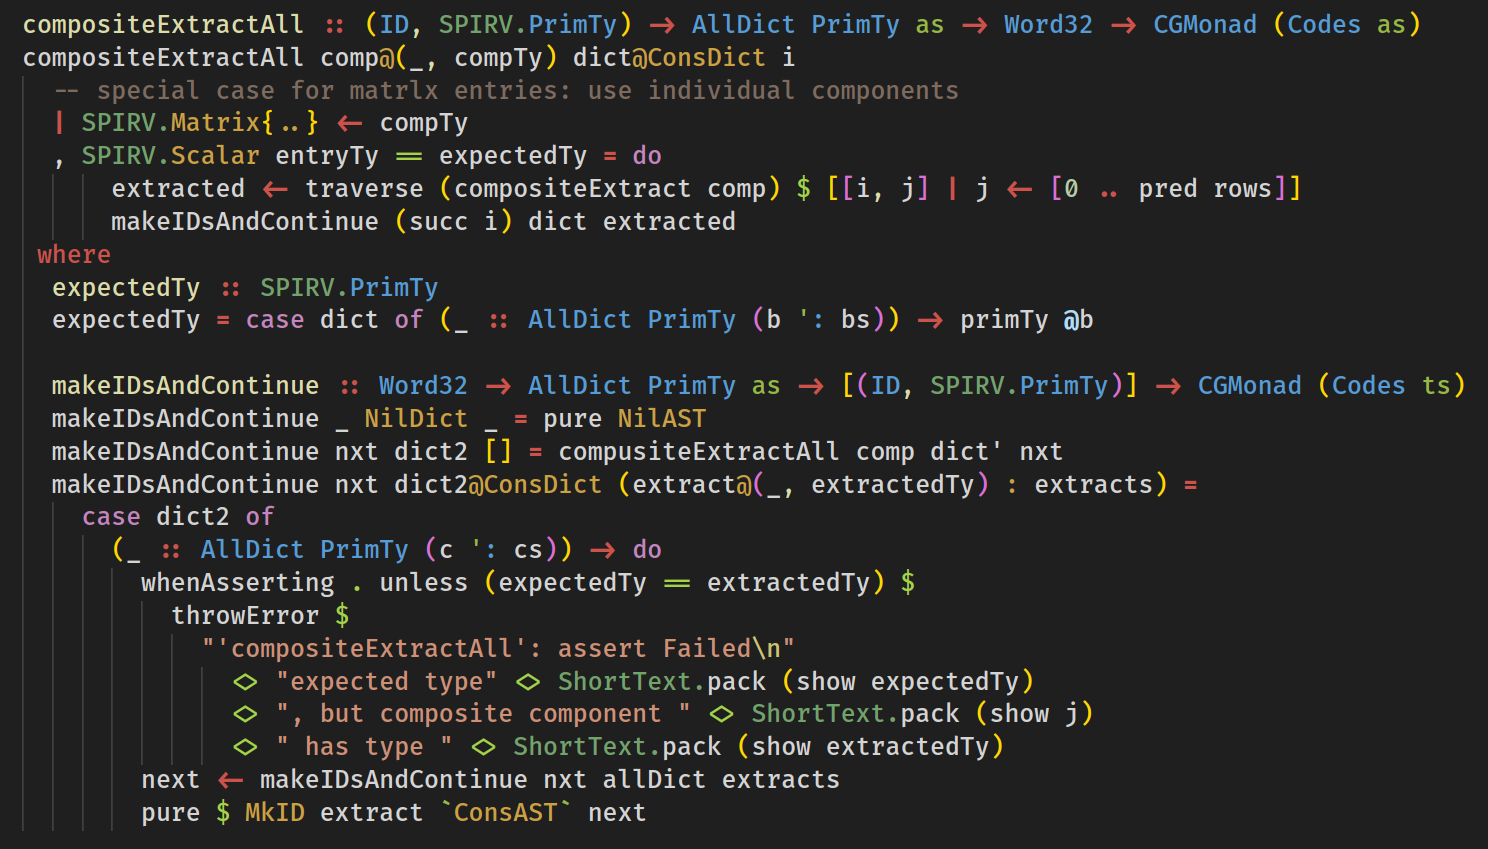
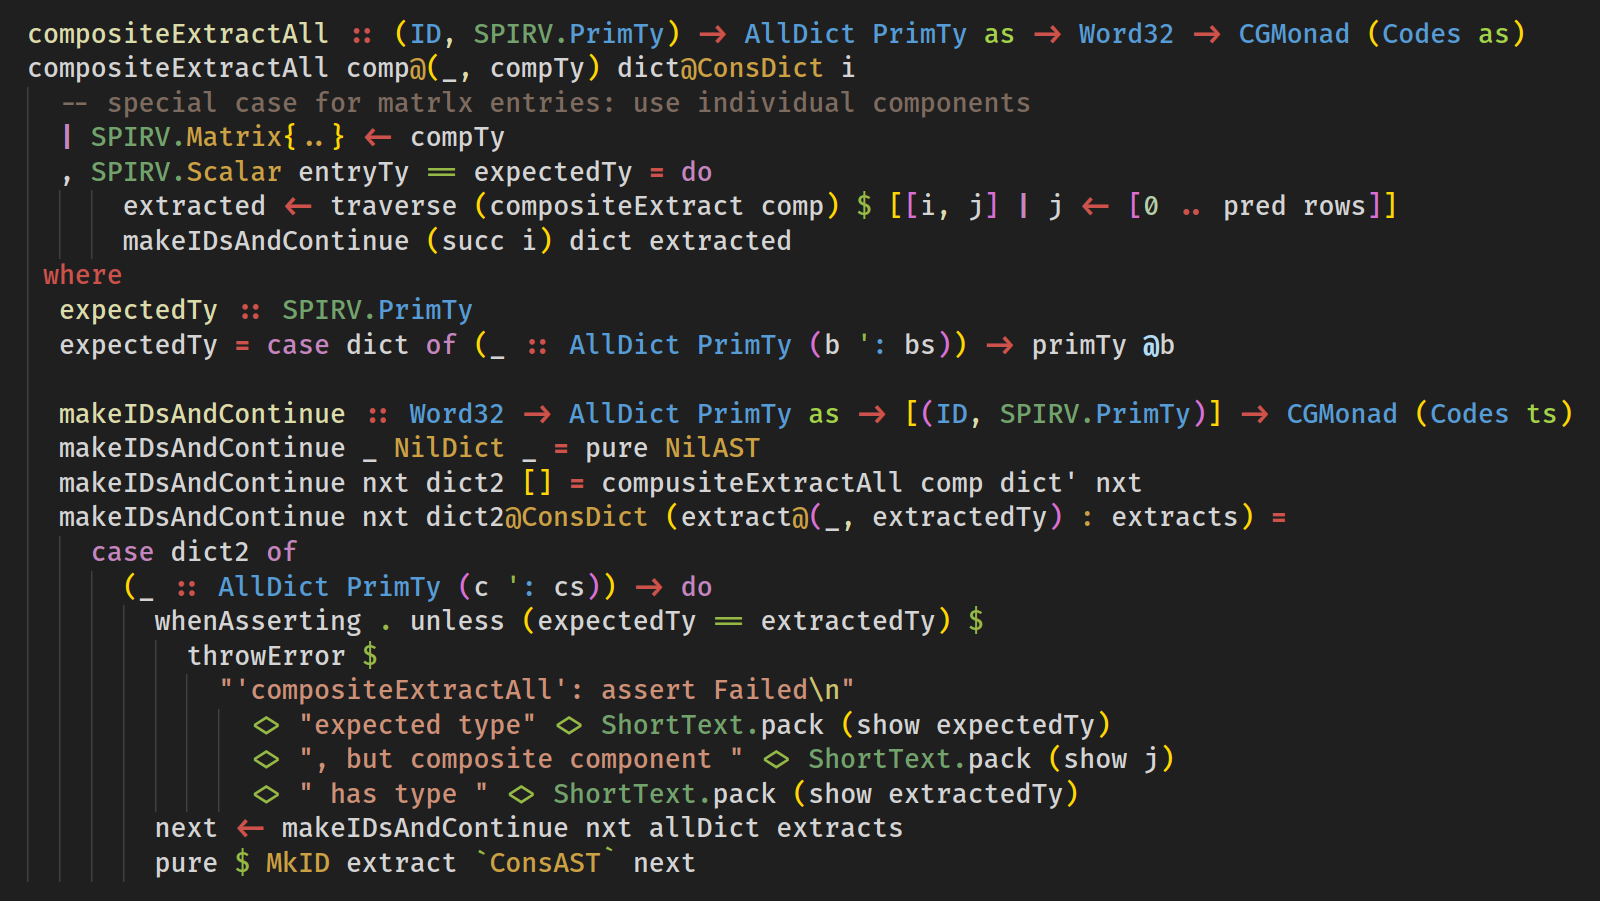
readme: update screenshots

Changed region(s): [[0.0309, 0.4287, 0.9892, 0.98], [0.0, 0.0, 0.9583, 0.3981]]

diff --git a/readme.md b/readme.md
@@ -8,11 +8,11 @@ __Lambda Black__ is a VS Code color theme optimised for Haskell with extra synta
 ## Color schemes
 Black:
 <p align="center">
-  <img src="https://pomf2.lain.la/f/e4es7p8s.png" alt="Black color scheme" style="max-width:90%;">
+  <img src="https://raw.githubusercontent.com/janw4ld/lambda-black/main/img/black-screenshot.png" alt="Black color scheme" style="max-width:90%;">
 </p>
 Dark+:
 <p align="center">
-  <img src="https://pomf2.lain.la/f/0atm6yx.png" alt="Dark+ color scheme" style="max-width:90%;">
+  <img src="https://raw.githubusercontent.com/janw4ld/lambda-black/main/img/dark-screenshot.png" alt="Dark+ color scheme" style="max-width:90%;">
 </p>
 
 ## Features
